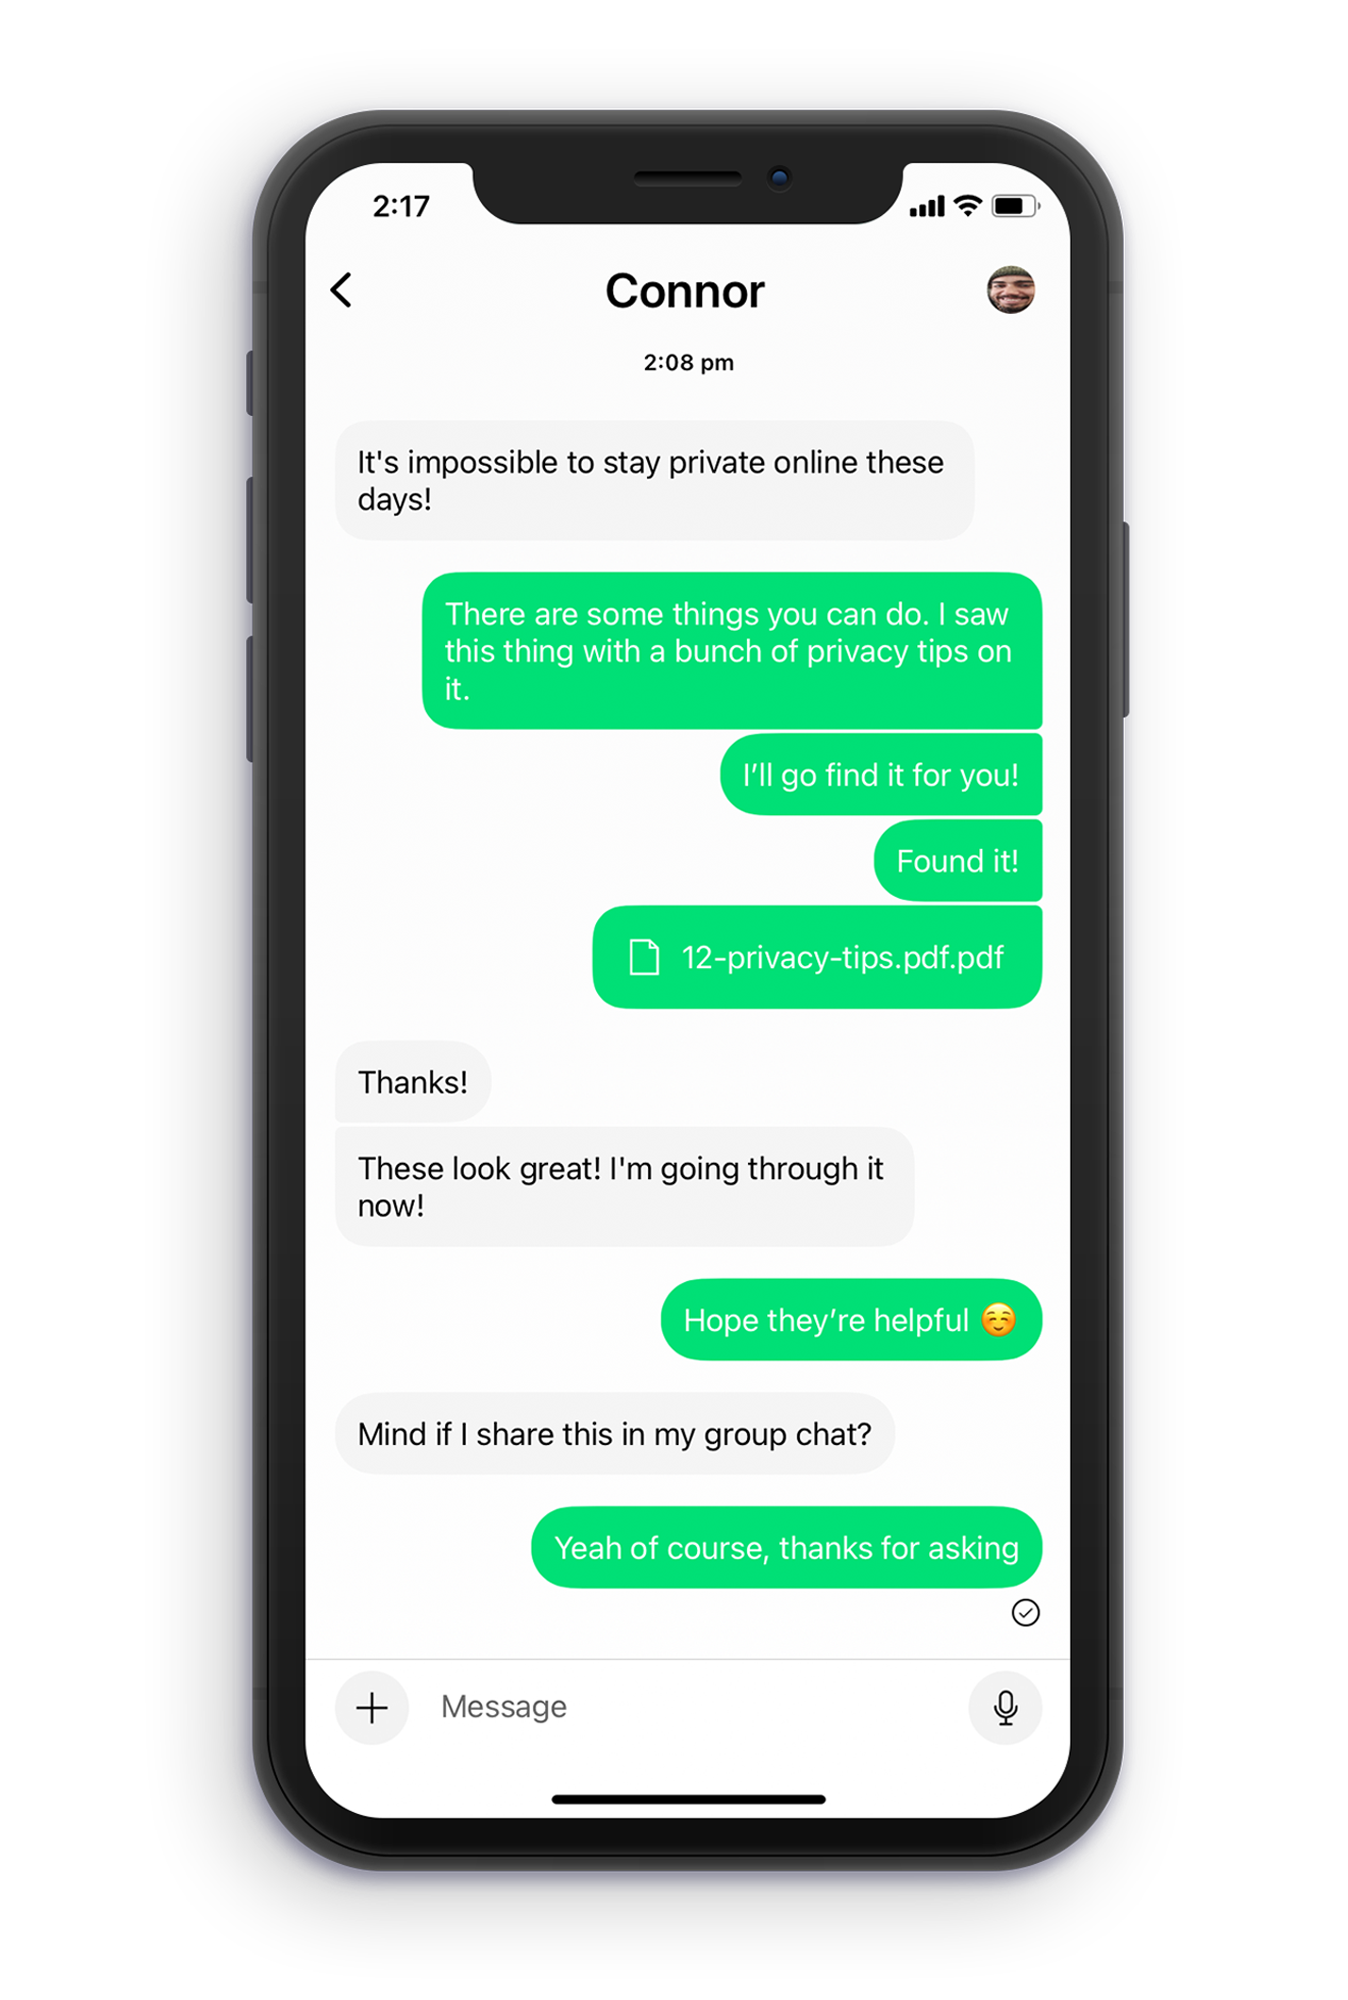
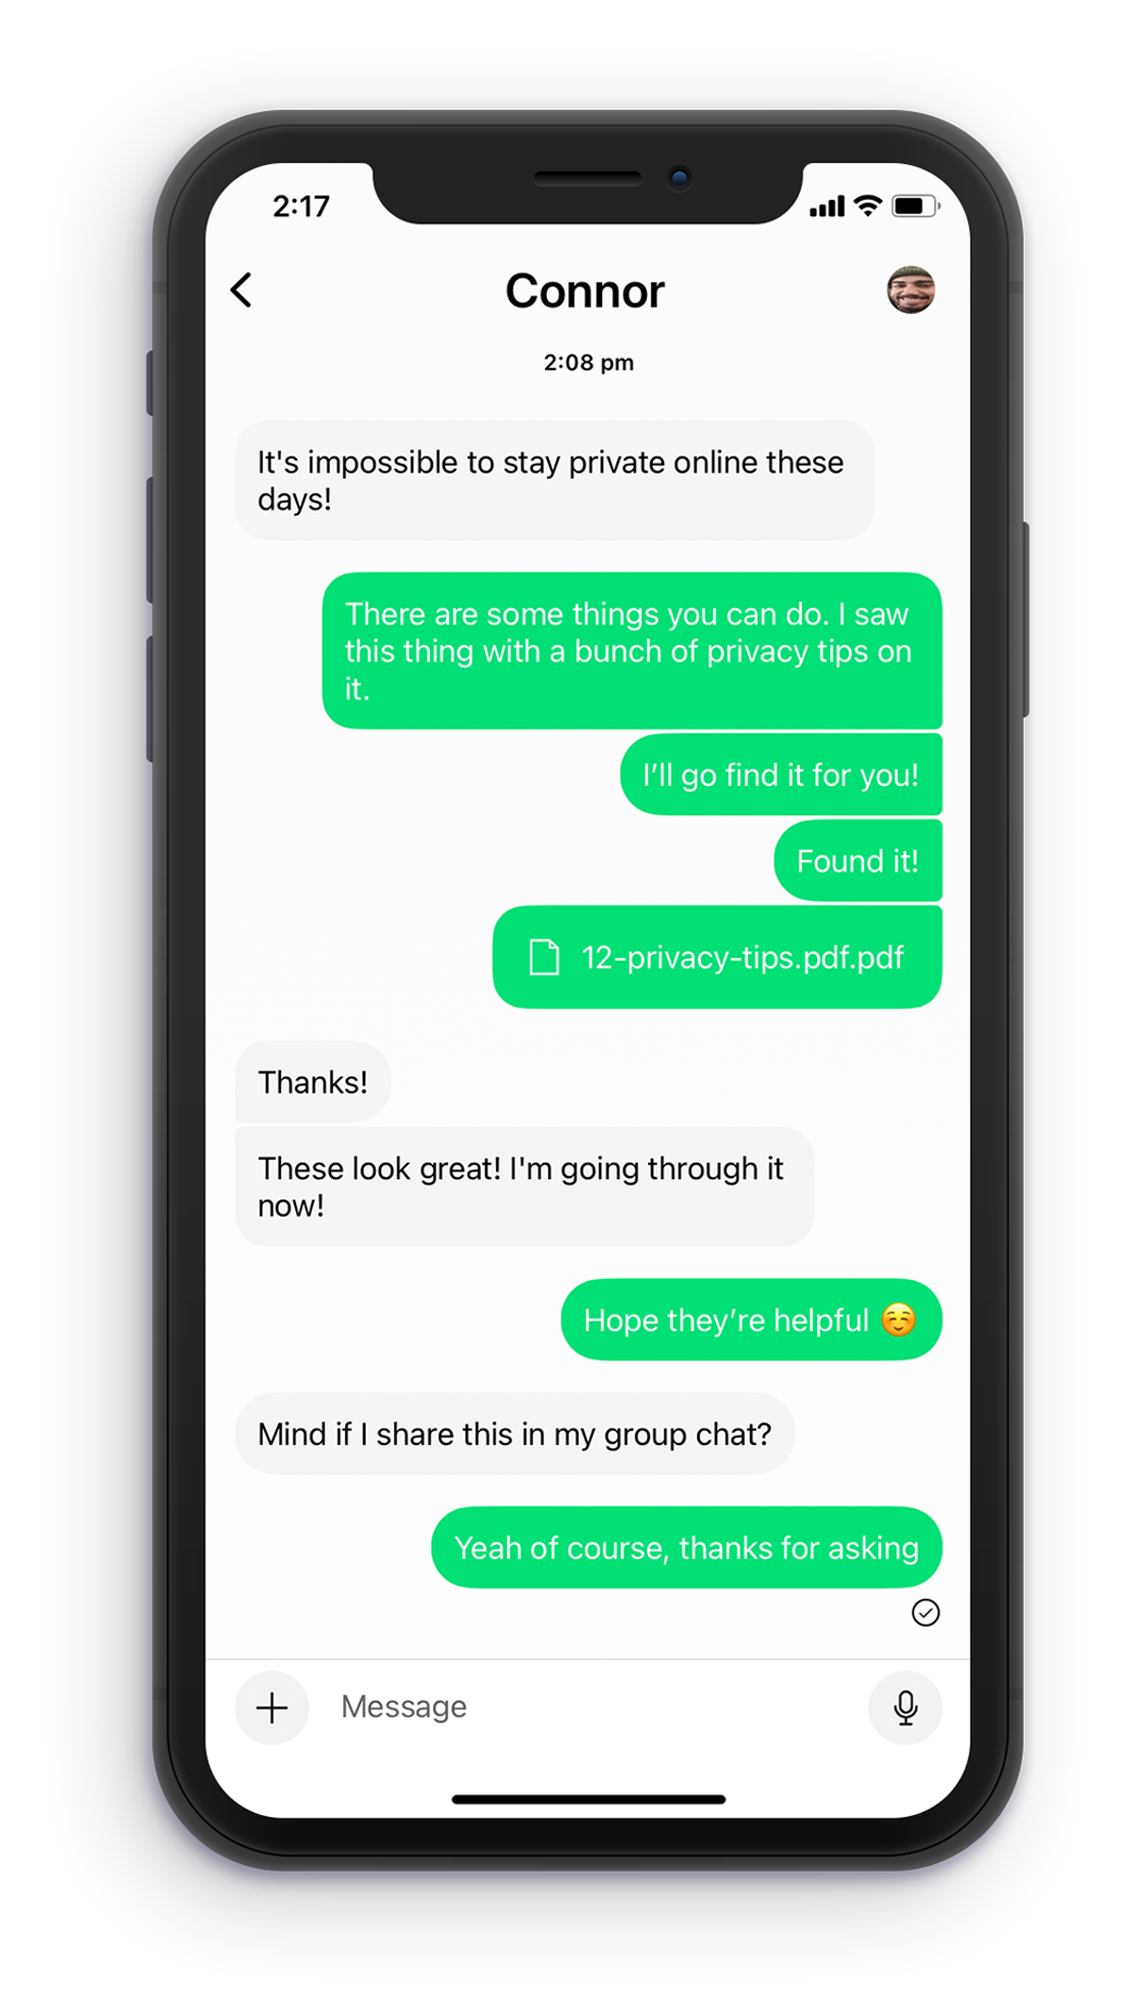
fixed overflowing container with new mockups

Changed region(s): [[0.0915, 0.031, 0.9146, 0.961], [0.4268, 0.124, 0.5793, 0.186], [0.2744, 0.837, 0.4268, 0.868]]

diff --git a/components/sections/Hero/index.tsx b/components/sections/Hero/index.tsx
@@ -33,7 +33,7 @@ export default function Hero(): ReactElement {
             '3xl:-mt-64'
           )}
         >
-          <div className={'lg:-mt-16 lg:-mr-8'}>
+          <div className={classNames('lg:-mt-16 lg:mr-8', 'xl:-mr-1')}>
             <h1 className={classNames(headingClasses)}>
               <span className="block">Send</span>
               <span className={'block glitch'} data-glitch-text={'Encrypted'}>
@@ -94,16 +94,11 @@ export default function Hero(): ReactElement {
             </Link>
           </div>
           {(isSmall || isMedium) && (
-            <div
-              className={classNames(
-                '-my-4 -mx-20 pr-2 text-center',
-                'md:-mx-24 md:pr-4'
-              )}
-            >
+            <div className={classNames('-mt-4 -ml-1')}>
               <Image
                 src="/assets/images/ui-direct-message.png"
                 alt="mobile app screenshot"
-                width="1348px"
+                width="1148px"
                 height="2000px"
                 layout="responsive"
                 priority={true}
@@ -112,15 +107,13 @@ export default function Hero(): ReactElement {
           )}
           {(isLarge || isHuge || isEnormous) && (
             <div className={classNames('max-w-2xl')}>
-              <div className={classNames('-mr-8')}>
-                <Image
-                  src="/assets/images/ui-showcase.png"
-                  alt="mobile app ui showcase"
-                  width="2224px"
-                  height="2000px"
-                  priority={true}
-                />
-              </div>
+              <Image
+                src="/assets/images/ui-showcase.png"
+                alt="mobile app ui showcase"
+                width="2224px"
+                height="2000px"
+                priority={true}
+              />
             </div>
           )}
         </div>

diff --git a/components/sections/Features/index.tsx b/components/sections/Features/index.tsx
@@ -49,15 +49,12 @@ export default function Features(): ReactElement {
         >
           {(isSmall || isMedium) && (
             <div
-              className={classNames(
-                '-mt-4 mb-12 -mx-16 pr-1',
-                'md:mb-16 md:px-24'
-              )}
+              className={classNames('-mt-4 -ml-1 mb-12', 'md:mb-16 md:px-20')}
             >
               <Image
                 src="/assets/images/ui-create-account.png"
                 alt="mobile app create account screenshot"
-                width="1348px"
+                width="1148px"
                 height="2000px"
                 layout="responsive"
               />
@@ -67,7 +64,7 @@ export default function Features(): ReactElement {
             className={classNames(
               'px-3',
               'md:max-w-xl',
-              'lg:max-w-sm lg:px-0 lg:-mt-8',
+              'lg:max-w-sm lg:px-0 lg:-mt-8 lg:mr-8',
               '2xl:mt-0'
             )}
           >
@@ -91,11 +88,11 @@ export default function Features(): ReactElement {
             </p>
           </div>
           {(isLarge || isHuge || isEnormous) && (
-            <div className={classNames('w-full -mt-12 -mr-24')}>
+            <div className={classNames('w-full -mt-12', 'xl:-mr-16')}>
               <Image
                 src="/assets/images/mockup-desktop.png"
                 alt="desktop app screenshot"
-                width="1600px"
+                width="1500px"
                 height="858px"
                 layout="responsive"
               />

diff --git a/pages/download.tsx b/pages/download.tsx
@@ -77,15 +77,15 @@ export default function Download(): ReactElement {
               <h2 className={classNames(headingClasses, 'my-4')}>Mobile</h2>
               <div
                 className={classNames(
-                  '-mt-2 px-12 mb-3',
-                  'md:-mt-5 md:px-36',
-                  'lg:-mt-7 lg:px-0 lg:w-3/4 lg:mx-auto'
+                  '-mt-2 -ml-1 px-16 mb-3',
+                  'md:-mt-5 md:px-48',
+                  'lg:mt-0 lg:px-0 lg:w-2/3 lg:mx-auto'
                 )}
               >
                 <Image
                   src="/assets/images/ui-create-account.png"
                   alt="mobile app create account screenshot"
-                  width="1348px"
+                  width="1148px"
                   height="2000px"
                   layout="responsive"
                 />
